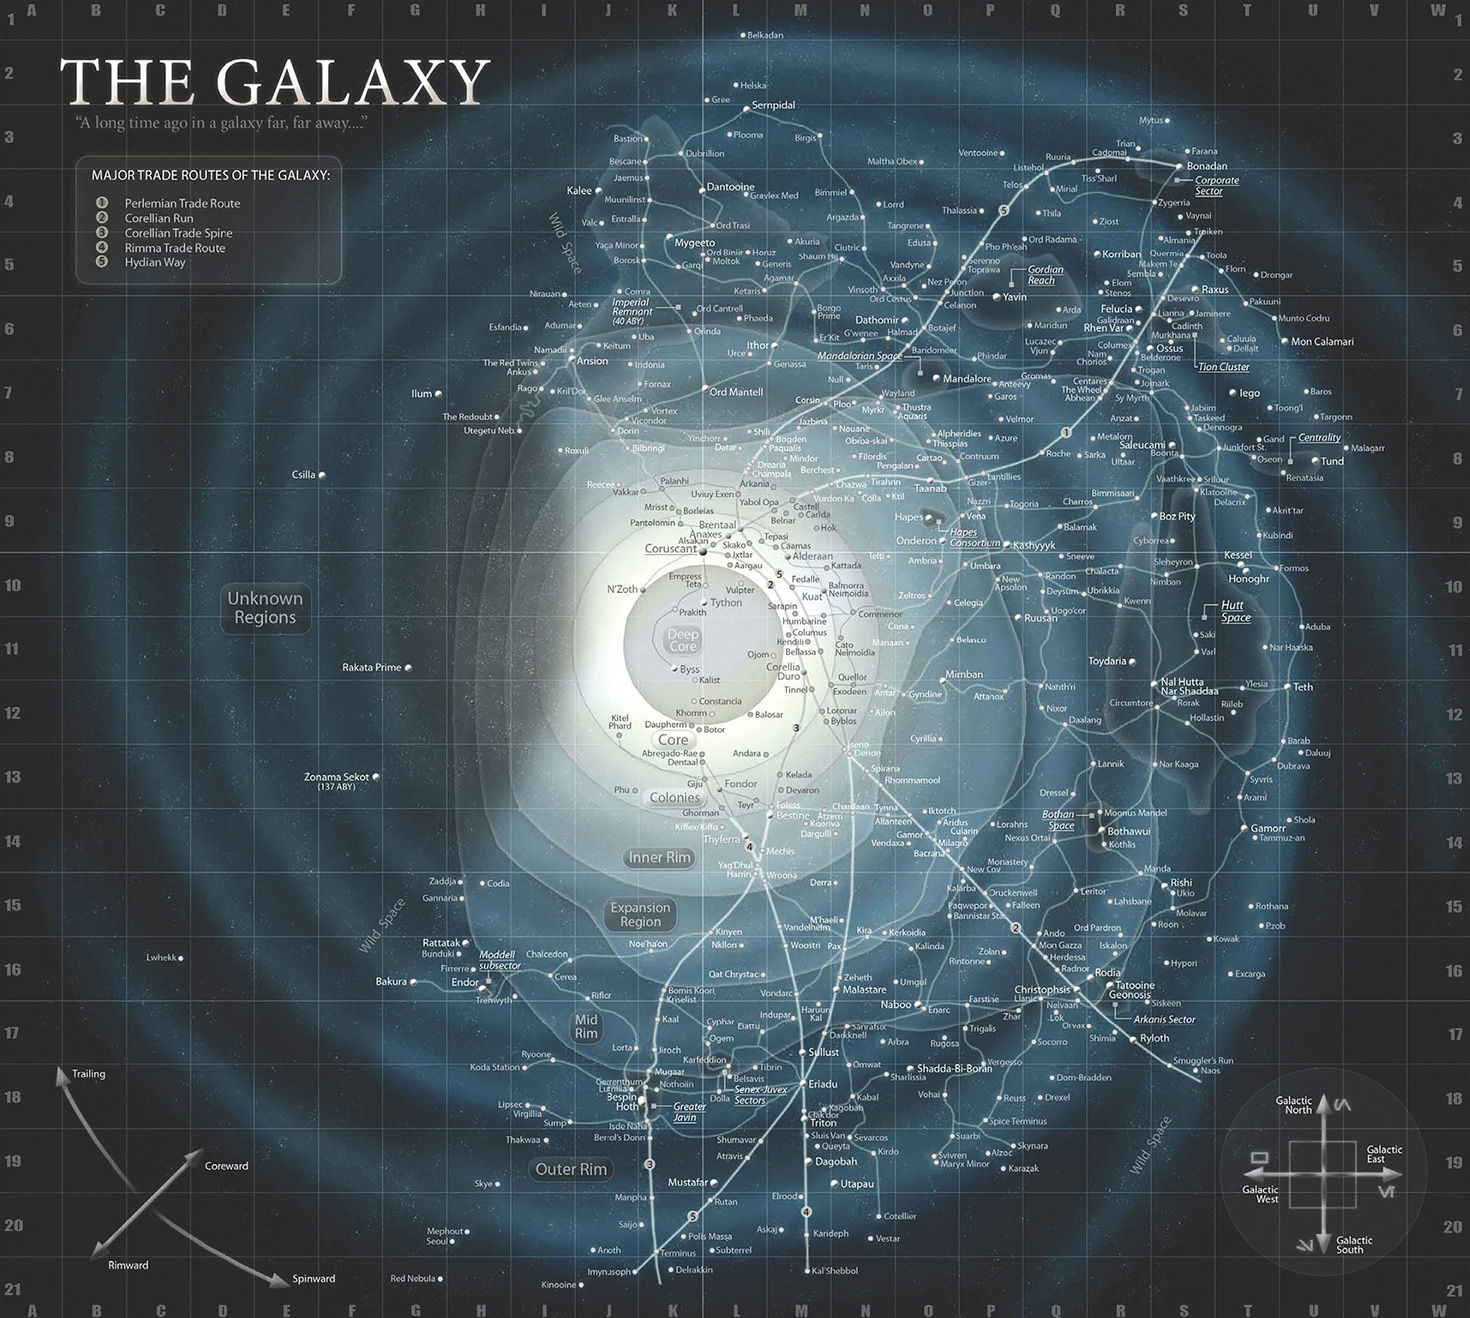
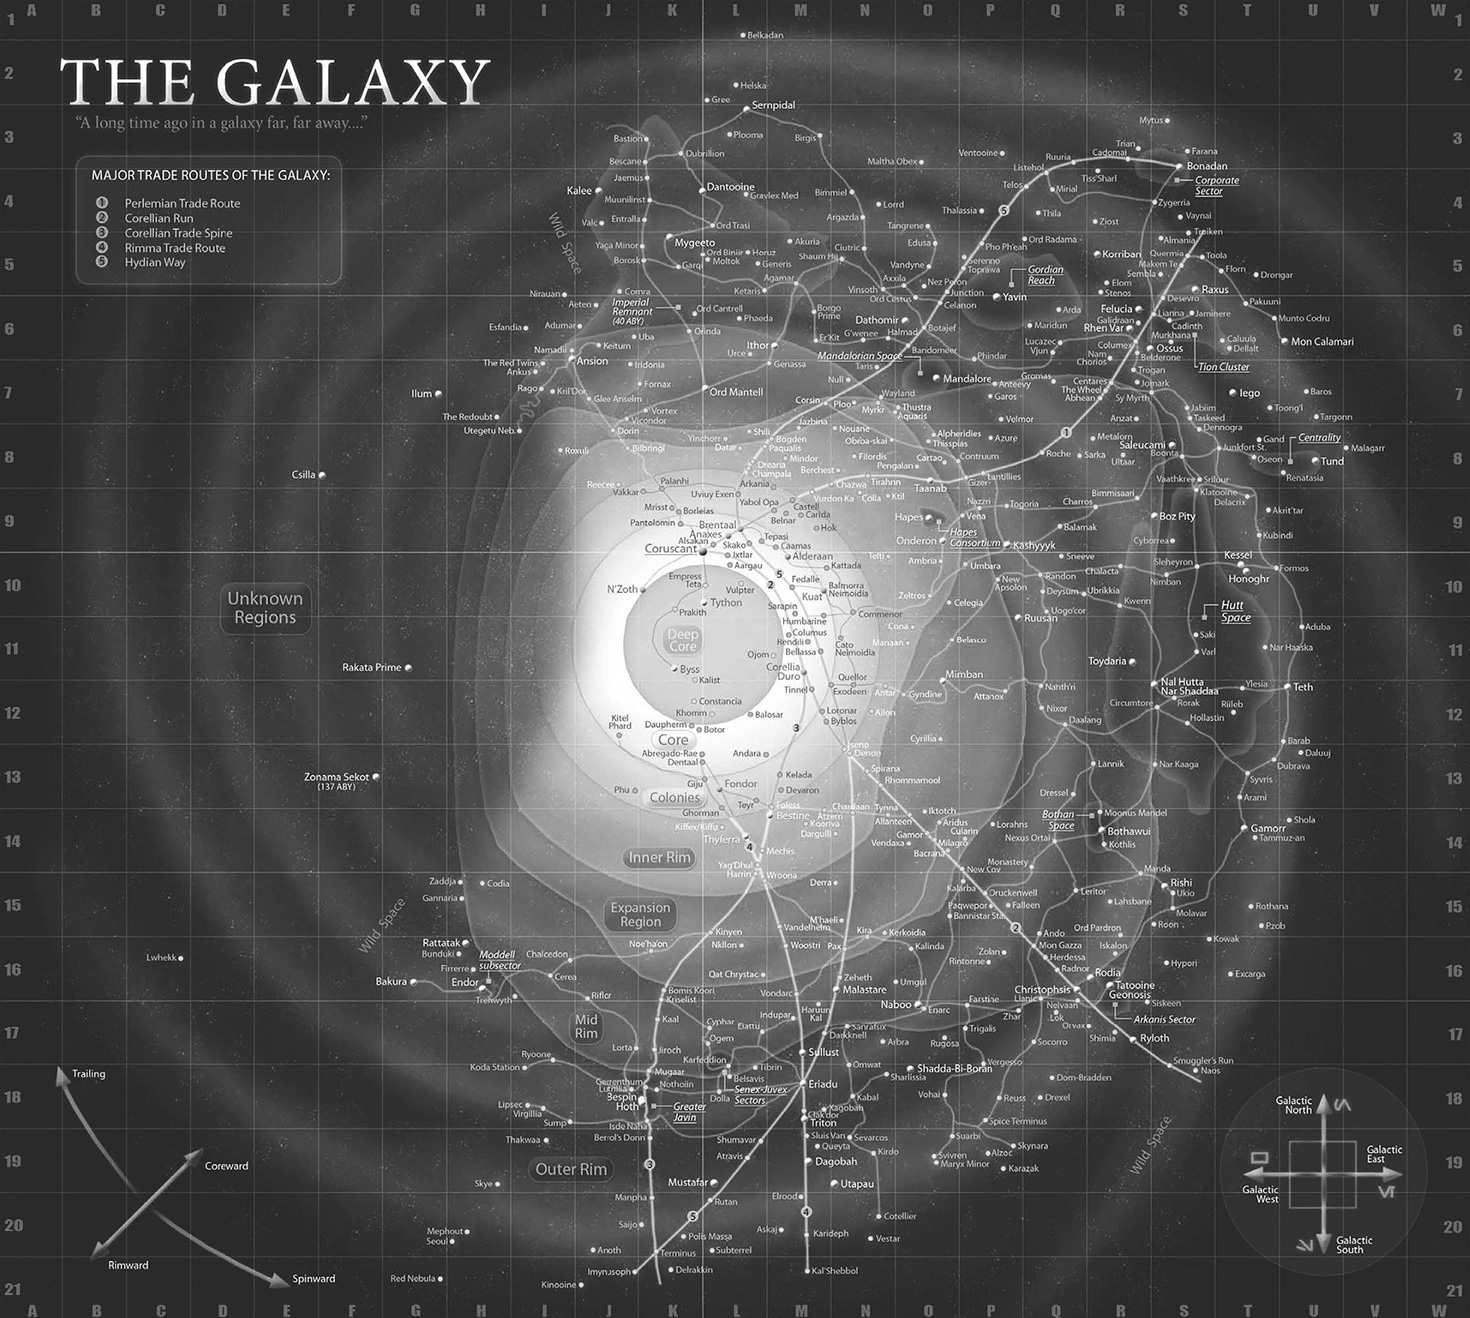
Fix some classNames and make galaxy black and white

diff --git a/client/pages/planet/index.jsx b/client/pages/planet/index.jsx
@@ -1,17 +1,13 @@
-import React from 'react';
-import { Map, Marker, Popup, TileLayer } from 'react-leaflet';
-
-const position = [51.505, -0.09];
-const map = <Map center={position} zoom={13}>
-    <TileLayer
-        url='http://{s}.tile.osm.org/{z}/{x}/{y}.png'
-        attribution='&copy; <a href="http://osm.org/copyright">OpenStreetMap</a> contributors'
-        />
-    <Marker position={position}>
-        <Popup>
-            <span>A pretty CSS3 popup.<br/>Easily customizable.</span>
-        </Popup>
-    </Marker>
-</Map>;
-
-React.render(map, document.getElementById('map-container'));
+var CommentBox = React.createClass({displayName: 'CommentBox',
+    render: function() {
+        return (
+            React.createElement('div', {className: "commentBox"},
+                "Hello, world! I am a CommentBox."
+            )
+        );
+    }
+});
+React.render(
+    React.createElement(CommentBox, null),
+    document.getElementById('content')
+);

diff --git a/server/web/terrain/index.jsx b/server/web/terrain/index.jsx
@@ -11,7 +11,7 @@ var Component = React.createClass({
                 activeTab="terrain">
 
                 <div className="row">
-                    <img src="public/media/terrain.png" class="img-responsive" width="1200"/>
+                    <img src="public/media/terrain.png" className="img-responsive" width="100%"/>
                 </div>
             </Layout>
         );

diff --git a/server/web/galaxy/index.jsx b/server/web/galaxy/index.jsx
@@ -11,7 +11,7 @@ var Component = React.createClass({
                 activeTab="galaxy">
 
                 <div className="row">
-                    <img src="public/media/galaxy2.jpg" class="img-responsive" width="1200"/>
+                    <img src="public/media/galaxy2.jpg" className="img-responsive" width="100%"/>
                 </div>
             </Layout>
         );

diff --git a/server/web/system/index.jsx b/server/web/system/index.jsx
@@ -11,7 +11,7 @@ var Component = React.createClass({
                 activeTab="system">
 
                 <div className="row">
-                    <img src="public/media/system.jpg" class="img-responsive" width="1200"/>
+                    <img src="public/media/system.jpg" className="img-responsive" width="100%"/>
                 </div>
             </Layout>
         );
